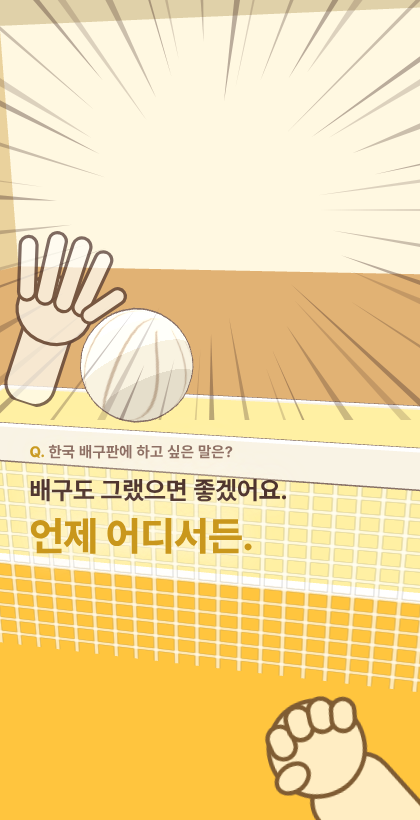
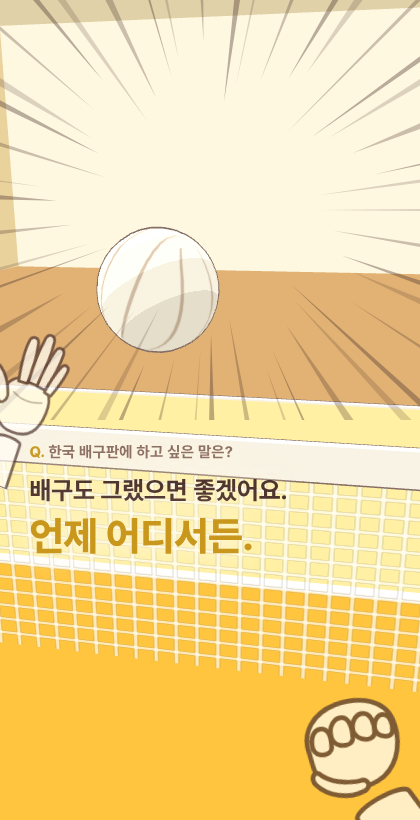
docs: 시안 피드백 반영 — 사람 손 실루엣 + 공 완전 가시성 규칙
- POV 손을 만화 장갑에서 사람 손으로 재작화 (손가락 길이 차등·테이퍼·
  엄지 각도·크리즈, 주먹은 말린 손가락 능선+감싼 엄지)
- '공 완전 가시성' 철칙 추가: 손 구간에서 공은 온전히 보이고
  스피드라인 소실점은 공
- 시안 캡처 갱신

Claude-Session: https://claude.ai/code/session_01CGnnVWVPrB2vbffiNQpkTn

Changed region(s): [[0.0, 0.2744, 0.5262, 0.6098], [0.619, 0.8232, 0.9905, 1.0], [0.9905, 0.9756, 1.0, 1.0]]

diff --git a/look-test.html b/look-test.html
@@ -21,10 +21,10 @@
 
   /* POV 손 오버레이 */
   .hand { position: fixed; z-index: 3; pointer-events: none; opacity: 0.72; }
-  #hand-reach { left: -4vw; top: 26vh; width: 34vw; transform: rotate(18deg); }
-  #hand-fist { right: -6vw; bottom: -6vh; width: 52vw; transform: rotate(-14deg); }
-  #hand-tossL { left: 2vw; bottom: -8vh; width: 44vw; transform: rotate(14deg); }
-  #hand-tossR { right: 2vw; bottom: -8vh; width: 44vw; transform: rotate(-14deg) scaleX(-1); }
+  #hand-reach { left: -9vw; top: 38vh; width: 30vw; transform: rotate(22deg); }
+  #hand-fist { right: -8vw; bottom: -8vh; width: 48vw; transform: rotate(-10deg); }
+  #hand-tossL { left: 3vw; bottom: -10vh; width: 40vw; transform: rotate(16deg); }
+  #hand-tossR { right: 3vw; bottom: -10vh; width: 40vw; transform: rotate(-16deg) scaleX(-1); }
 
   /* 장면 결합 타이포그래피 (박스 없음) */
   .typo {
@@ -59,56 +59,53 @@
   <g id="sl" fill="#4e342e"></g>
 </svg>
 
-<!-- POV 손: 뻗은 손 (스파이크 - 조준) -->
-<svg id="hand-reach" class="hand" viewBox="0 0 220 300" style="display:none">
-  <g fill="#fffdf6" stroke="#4e342e" stroke-width="5" stroke-linejoin="round" stroke-linecap="round">
-    <rect x="72" y="150" width="76" height="150" rx="30"/>              <!-- 손목/팔 -->
-    <ellipse cx="110" cy="150" rx="58" ry="52"/>                        <!-- 손바닥 -->
-    <rect x="38" y="52" width="26" height="98" rx="13" transform="rotate(-16 51 101)"/>
-    <rect x="72" y="34" width="27" height="112" rx="13" transform="rotate(-5 85 90)"/>
-    <rect x="106" y="30" width="28" height="118" rx="14"/>
-    <rect x="140" y="40" width="26" height="106" rx="13" transform="rotate(7 153 93)"/>
-    <rect x="168" y="82" width="24" height="76" rx="12" transform="rotate(38 180 120)"/>  <!-- 엄지 -->
-  </g>
+<!-- 사람 손 정의: 오른손, 손등 뷰, 손가락 위 (중지 최장, 끝으로 갈수록 가늘어짐) -->
+<svg width="0" height="0" style="position:absolute">
+  <defs>
+    <g id="open-hand" fill="#fffdf6" stroke="#4e342e" stroke-width="5" stroke-linejoin="round" stroke-linecap="round">
+      <!-- 팔뚝 (약간 테이퍼) -->
+      <path d="M86 320 L 90 236 C 91 228, 133 228, 134 236 L 140 320 Z"/>
+      <!-- 손바닥 -->
+      <path d="M68 168 C 68 134 82 120 112 120 C 142 120 156 134 156 166 C 156 200 142 220 112 220 C 84 220 68 202 68 168 Z"/>
+      <!-- 검지 -->
+      <path transform="rotate(-7 92 90)" d="M84 130 C 81 104 80 74 84 56 C 86 44 99 44 101 56 C 104 76 103 104 100 130 Z"/>
+      <!-- 중지 (최장) -->
+      <path transform="rotate(-1 113 84)" d="M105 126 C 103 98 103 62 106 42 C 108 30 121 30 123 42 C 126 64 125 100 122 126 Z"/>
+      <!-- 약지 -->
+      <path transform="rotate(5 133 92)" d="M126 128 C 124 104 124 74 127 56 C 129 45 141 45 143 56 C 146 76 145 104 142 128 Z"/>
+      <!-- 소지 (짧고 가늘게) -->
+      <path transform="rotate(12 150 106)" d="M145 134 C 143 116 143 94 145 80 C 147 70 157 70 159 80 C 161 96 160 118 158 134 Z"/>
+      <!-- 엄지 (손바닥 옆면에서 사선으로) -->
+      <path d="M72 178 C 58 168 42 152 34 136 C 28 124 38 112 49 118 C 63 127 74 144 80 160 C 82 168 78 176 72 178 Z"/>
+      <!-- 관절 크리즈 힌트 -->
+      <path d="M88 152 C 104 160 124 160 142 152" fill="none" stroke-width="3" opacity="0.45"/>
+    </g>
+    <!-- 주먹: 말린 네 손가락 + 감싼 엄지, 측후면 뷰 -->
+    <g id="fist-hand" fill="#fffdf6" stroke="#4e342e" stroke-width="6" stroke-linejoin="round" stroke-linecap="round">
+      <!-- 팔뚝 -->
+      <path d="M150 300 L 128 210 C 124 196, 196 178, 202 192 L 232 272 Z" transform="rotate(-6 180 240)"/>
+      <!-- 손등/주먹 몸통 -->
+      <path d="M78 118 C 74 92 92 70 122 64 C 156 58 186 70 192 96 C 198 122 190 152 168 166 C 140 182 96 176 84 152 C 79 142 80 130 78 118 Z"/>
+      <!-- 말린 손가락 4개 (첫마디 능선) -->
+      <path d="M84 116 C 82 100 90 90 100 92 C 108 94 110 104 108 118 C 106 128 88 128 84 116 Z"/>
+      <path d="M110 106 C 108 90 118 80 128 82 C 136 84 139 96 137 110 C 135 122 113 120 110 106 Z"/>
+      <path d="M139 102 C 138 88 148 78 158 82 C 165 85 168 96 166 108 C 164 120 142 116 139 102 Z"/>
+      <path d="M167 104 C 167 92 175 84 183 88 C 189 91 191 100 189 110 C 187 120 169 116 167 104 Z"/>
+      <!-- 엄지: 아래를 사선으로 감쌈 -->
+      <path d="M86 148 C 96 160 118 168 138 166 C 148 165 150 176 141 180 C 118 188 92 178 80 162 C 74 154 79 144 86 148 Z"/>
+    </g>
+  </defs>
 </svg>
+
+<!-- POV 손: 뻗은 손 (스파이크 - 조준) -->
+<svg id="hand-reach" class="hand" viewBox="0 0 226 320" style="display:none"><use href="#open-hand"/></svg>
 
 <!-- POV 손: 당긴 주먹 (스파이크 - 도움닫기) -->
-<svg id="hand-fist" class="hand" viewBox="0 0 300 300" style="display:none">
-  <g fill="#fffdf6" stroke="#4e342e" stroke-width="6" stroke-linejoin="round" stroke-linecap="round">
-    <rect x="120" y="150" width="120" height="170" rx="46" transform="rotate(-28 180 235)"/> <!-- 팔뚝 -->
-    <circle cx="128" cy="128" r="66"/>                                   <!-- 주먹 -->
-    <rect x="66" y="86" width="34" height="46" rx="17" transform="rotate(-10 83 109)"/>
-    <rect x="96" y="66" width="34" height="46" rx="17" transform="rotate(-4 113 89)"/>
-    <rect x="128" y="62" width="34" height="46" rx="17" transform="rotate(3 145 85)"/>
-    <rect x="158" y="70" width="32" height="44" rx="16" transform="rotate(10 174 92)"/>
-    <ellipse cx="86" cy="160" rx="24" ry="18" transform="rotate(-24 86 160)"/> <!-- 엄지 -->
-  </g>
-</svg>
+<svg id="hand-fist" class="hand" viewBox="0 0 260 300" style="display:none"><use href="#fist-hand"/></svg>
 
-<!-- POV 손: 토스 (양손 세트) -->
-<svg id="hand-tossL" class="hand" viewBox="0 0 220 300" style="display:none">
-  <g fill="#fffdf6" stroke="#4e342e" stroke-width="5" stroke-linejoin="round" stroke-linecap="round">
-    <rect x="76" y="160" width="72" height="140" rx="30" transform="rotate(10 112 230)"/>
-    <ellipse cx="108" cy="152" rx="56" ry="50"/>
-    <rect x="34" y="60" width="26" height="96" rx="13" transform="rotate(-24 47 108)"/>
-    <rect x="68" y="40" width="27" height="110" rx="13" transform="rotate(-12 81 95)"/>
-    <rect x="104" y="34" width="28" height="116" rx="14" transform="rotate(-2 118 92)"/>
-    <rect x="138" y="42" width="26" height="104" rx="13" transform="rotate(10 151 94)"/>
-    <rect x="164" y="84" width="24" height="74" rx="12" transform="rotate(42 176 121)"/>
-  </g>
-</svg>
-<svg id="hand-tossR" class="hand" viewBox="0 0 220 300" style="display:none">
-  <use href="#hand-tossL-g"/>
-  <g fill="#fffdf6" stroke="#4e342e" stroke-width="5" stroke-linejoin="round" stroke-linecap="round">
-    <rect x="76" y="160" width="72" height="140" rx="30" transform="rotate(10 112 230)"/>
-    <ellipse cx="108" cy="152" rx="56" ry="50"/>
-    <rect x="34" y="60" width="26" height="96" rx="13" transform="rotate(-24 47 108)"/>
-    <rect x="68" y="40" width="27" height="110" rx="13" transform="rotate(-12 81 95)"/>
-    <rect x="104" y="34" width="28" height="116" rx="14" transform="rotate(-2 118 92)"/>
-    <rect x="138" y="42" width="26" height="104" rx="13" transform="rotate(10 151 94)"/>
-    <rect x="164" y="84" width="24" height="74" rx="12" transform="rotate(42 176 121)"/>
-  </g>
-</svg>
+<!-- POV 손: 토스 (양손, 손가락을 살짝 안쪽으로) -->
+<svg id="hand-tossL" class="hand" viewBox="0 0 226 320" style="display:none"><use href="#open-hand"/></svg>
+<svg id="hand-tossR" class="hand" viewBox="0 0 226 320" style="display:none"><use href="#open-hand"/></svg>
 
 <!-- 타이포: 스파이크 -->
 <div class="typo middle" id="typo-spike" style="display:none">
@@ -271,7 +268,7 @@ if (SCENE === 'spike') {
   // 스파이커 시점: 공중, 네트 너머 상대 코트를 내려다봄
   camera.position.set(-1.6, 3.5, -2.8);
   camera.lookAt(0.6, -0.2, 9);
-  ball.position.set(-0.35, 2.45, 1.4);
+  ball.position.set(-0.55, 2.95, 1.2);
   ball.rotation.z = 0.6;
   show('speedlines'); show('hand-reach'); show('hand-fist'); show('typo-spike');
   // 스피드라인 생성

diff --git a/docs/website_design.md b/docs/website_design.md
@@ -44,8 +44,10 @@
 - **카메라 = 누룽지.** 랠리 국면(서브~스파이크)은 1인칭. 히어로(코트 전경)와 엔딩(공이 그릇에 담기는 장면)만 3인칭.
 - **손**: 3D 모델이 아니라 **2D SVG 일러스트 오버레이.**
   - 스타일: 흰 채움(`#FFFDF6`) + dark 선(5~6px, round join/cap), 그룹 `opacity: 0.72`.
-  - 포즈 4종: 서브(공 든 손 + 당긴 손) / 리시브(모은 팔뚝 플랫폼) / 토스(양손 머리 위) / 스파이크(뻗은 손 + 당긴 주먹).
+  - **사람 손으로 그린다 (만화 장갑 금지)**: 손가락 길이 차등(중지 최장·소지 최단), 끝으로 갈수록 가늘어지는 테이퍼, 엄지는 손바닥 옆면에서 사선으로, 손바닥에 관절 크리즈 힌트 1줄(가는 선, opacity 0.45). 주먹은 말린 손가락 첫마디 능선 4개 + 아래를 사선으로 감싼 엄지.
+  - 포즈 4종: 서브(공 든 손 + 당긴 손) / 리시브(모은 팔뚝 플랫폼) / 토스(양손 머리 위) / 스파이크(뻗은 손 + 당긴 주먹). 원본은 `look-test.html`의 `#open-hand`/`#fist-hand` 심볼 — 재사용·미러링으로 변형한다.
   - 진입: 화면 가장자리 밖에서 스크롤 진행률에 연동해 들어오고 빠진다. 항상 떠 있지 않는다.
+- **공 완전 가시성 (철칙)**: 손 오버레이가 뜨는 동안 **공은 프레임 안에 온전히 보여야 하며**, 손·타이포와 겹치지 않는다. 스피드라인의 소실점 = 공. 시선의 주인은 항상 공이다.
 - **스피드라인**: 스파이크 순간에만. SVG 방사형 집중선, dark 색, 전체 `opacity ≈ 0.55`, **중앙 40%는 비워** 시선이 공에 모이게.
 - **완급 (켄마 시점의 핵심)**: 스크롤 구간 배분으로 시간을 조절한다 — 토스 구간은 길게(슬로모), 스파이크 구간은 짧게(가속). 균등 배분 금지.
 
@@ -88,6 +90,7 @@
 
 남은 조정 (본작업에서):
 - 스파이크 카메라: 네트 그물 비중을 줄이고 상대 코트 조망을 넓히는 앵글
-- 손 일러스트 디테일 (엄지 형태, 손가락 비례)
 - 토스 장면 천장 디테일 (창 빛, 보 추가)
 - 국면별 스크롤 배분 수치 (완급 튜닝)
+
+시안 확정 이력: 2026-08-05 사용자 피드백 반영 — 손을 사람 손 실루엣으로 교체, 공 완전 가시성 규칙 추가.
